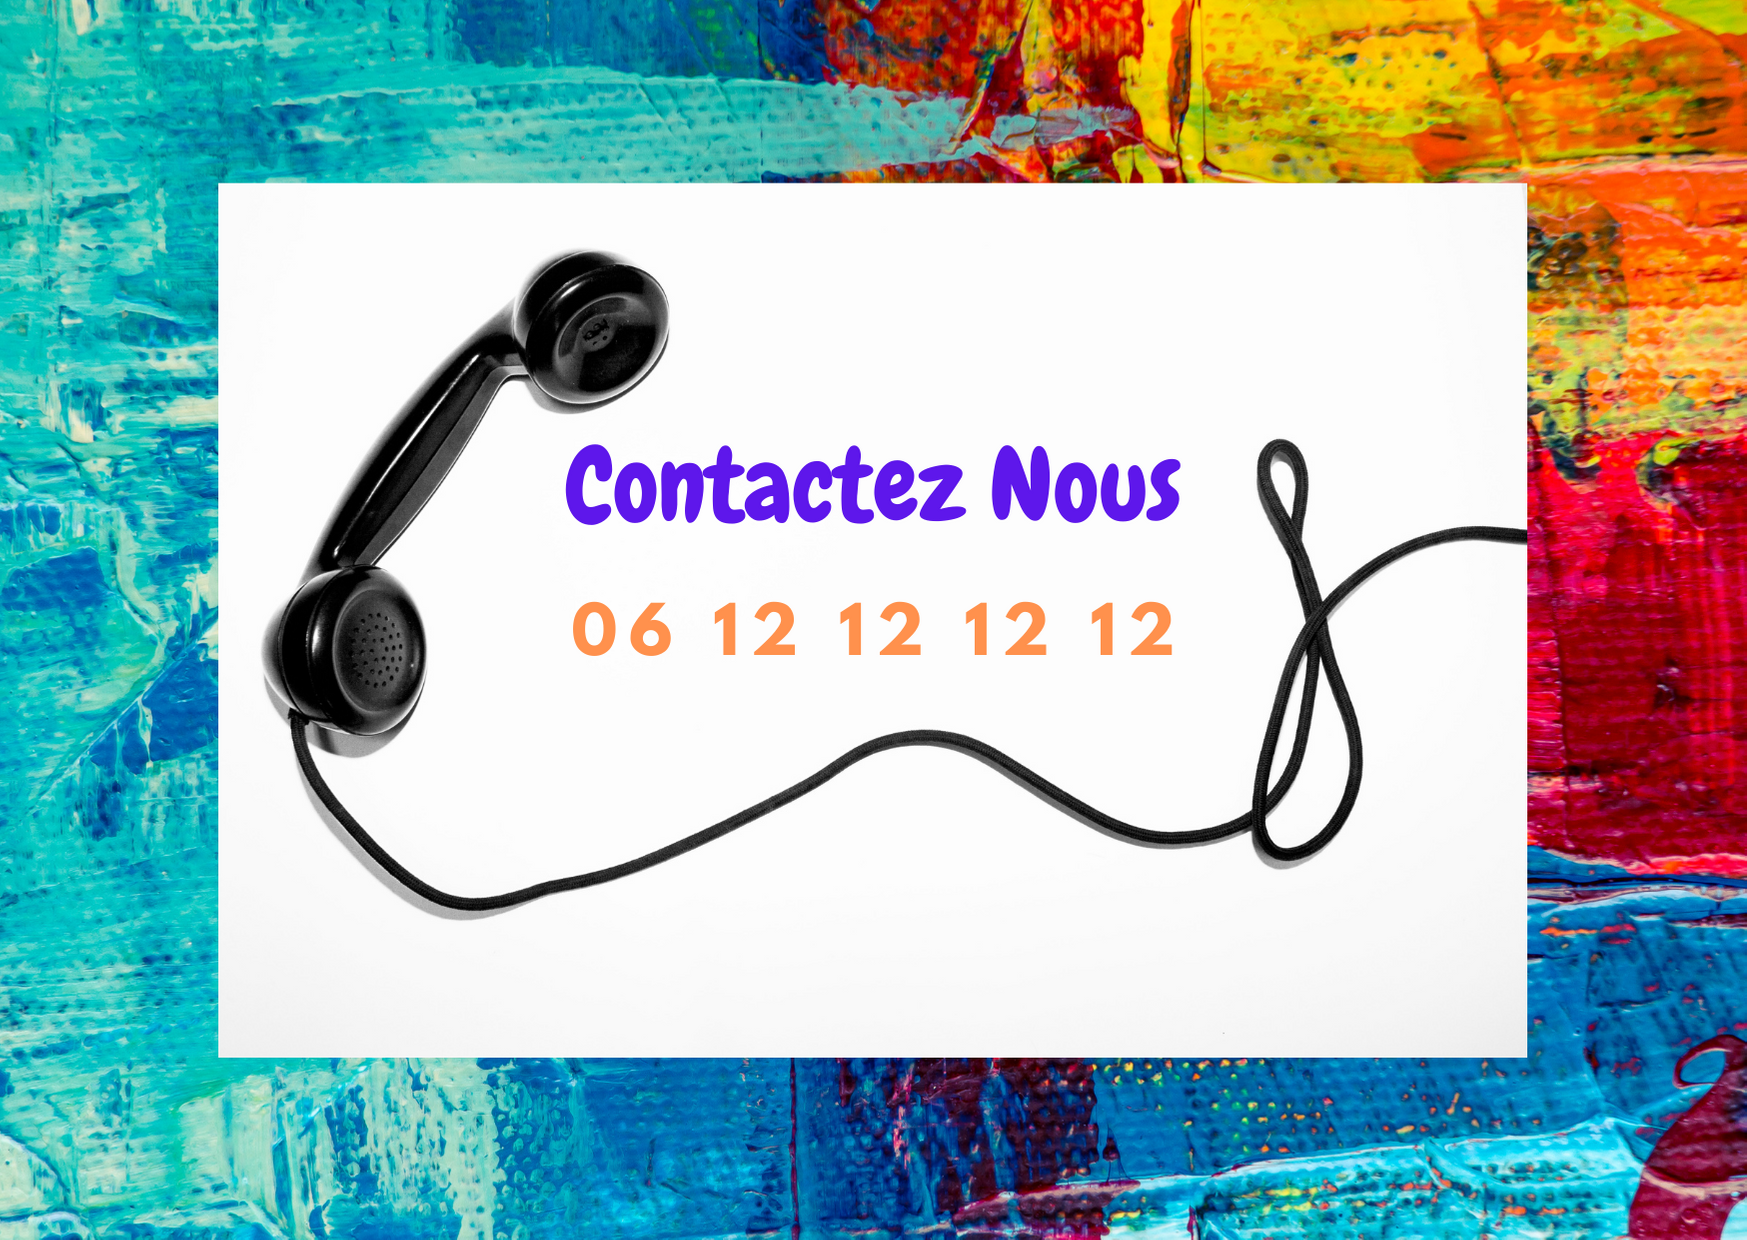
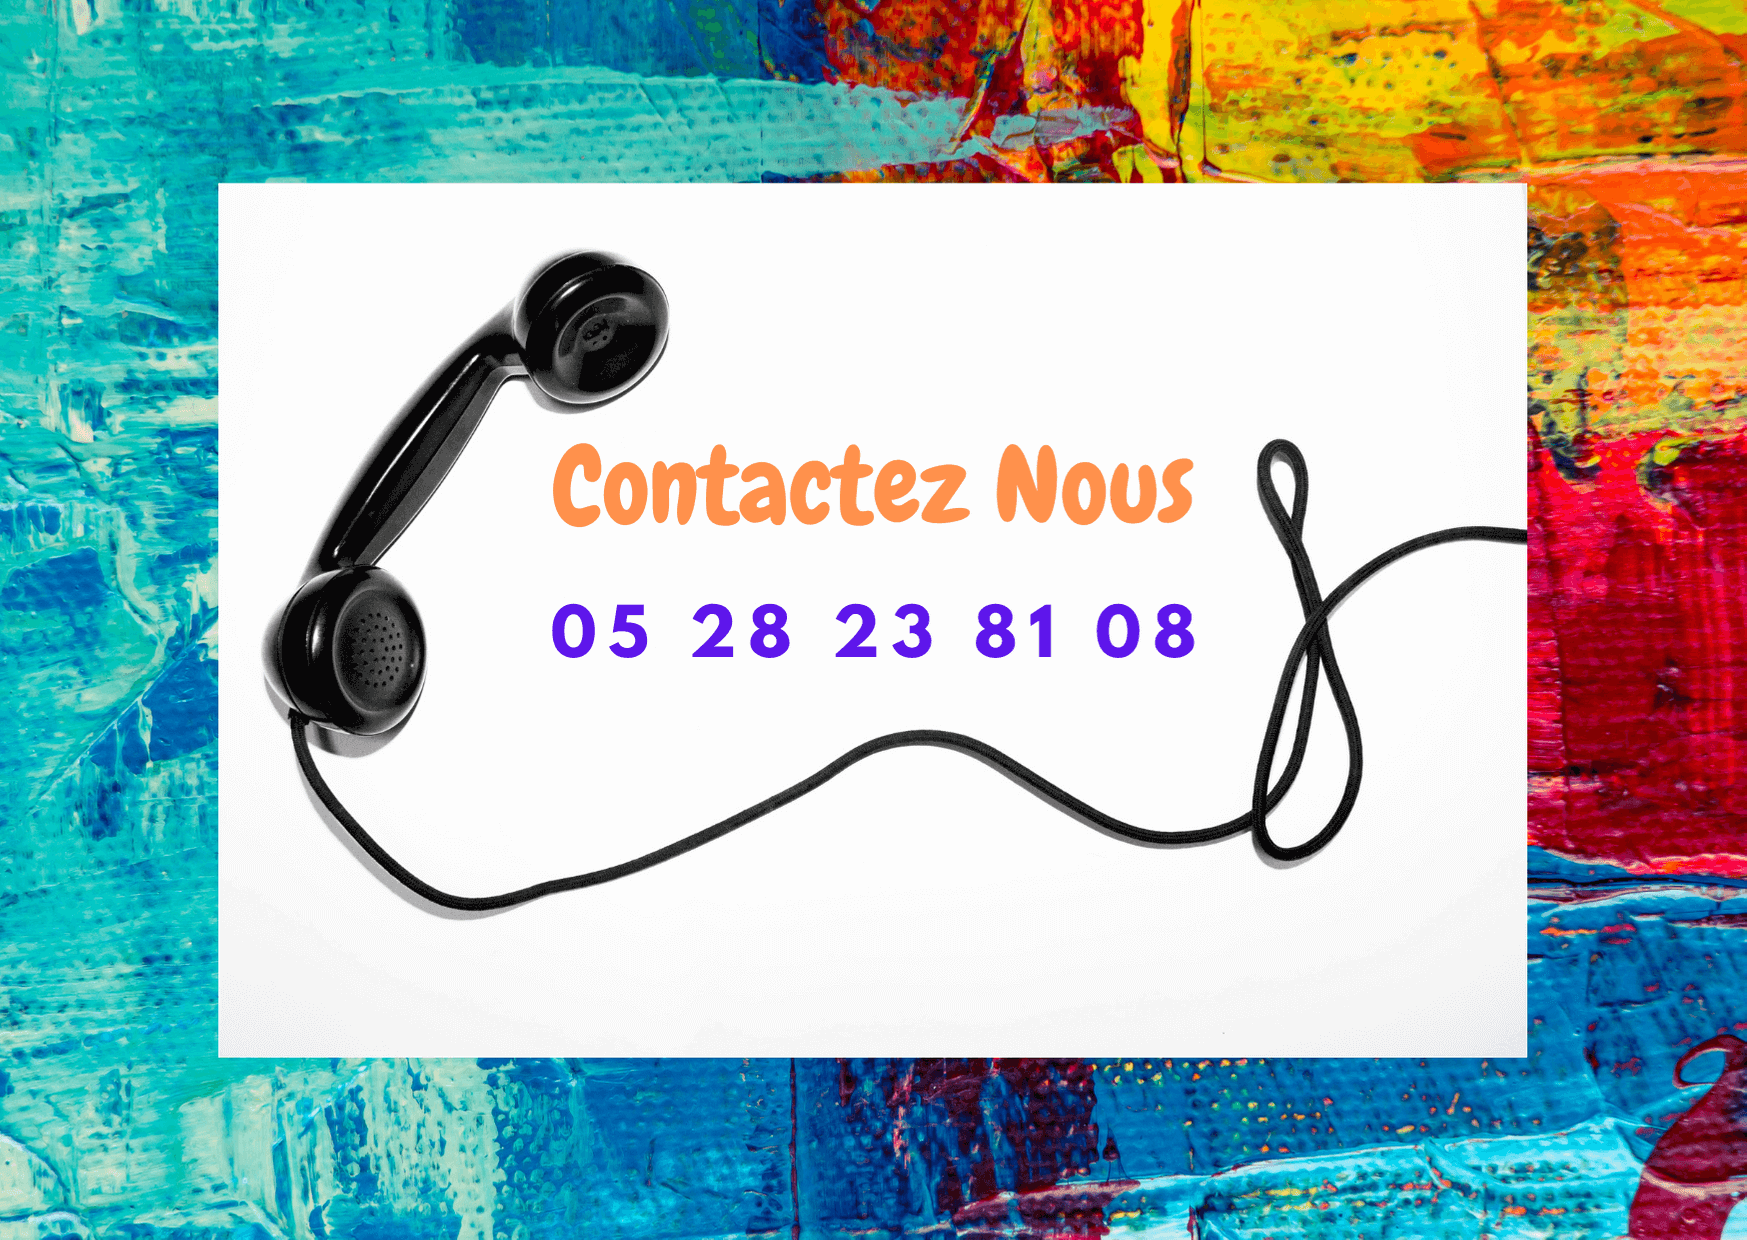
main pages are done

diff --git a/src/components/Footer.js b/src/components/Footer.js
@@ -1,14 +1,14 @@
 import React from 'react';
 import {
   Container,
-  Divider,
   Grid,
   Header,
-  Image,
   List,
   Segment,
+  Icon,
 } from 'semantic-ui-react';
 import 'semantic-ui-css/semantic.min.css';
+import { Link } from 'react-router-dom';
 
 const Footer = () => (
   <div>
@@ -19,58 +19,37 @@ const Footer = () => (
     >
       <Container textAlign='center'>
         <Grid divided inverted stackable>
-          <Grid.Column width={3}>
-            <Header inverted as='h4' content='Group 1' />
+          <Grid.Column width={4}>
+            <Header inverted as='h4' content='Nos Services' />
+
             <List link inverted>
-              <List.Item as='a'>Link One</List.Item>
-              <List.Item as='a'>Link Two</List.Item>
-              <List.Item as='a'>Link Three</List.Item>
-              <List.Item as='a'>Link Four</List.Item>
+              <List.Item as='a'>
+                <Link to='/consultation'>Consultation</Link>{' '}
+              </List.Item>
+              <List.Item as='a'>
+                <Link to='/produits'>Produits</Link>
+              </List.Item>
+              <List.Item as='a'>
+                <Link to='/contact'>Contact</Link>
+              </List.Item>
             </List>
           </Grid.Column>
-          <Grid.Column width={3}>
-            <Header inverted as='h4' content='Group 2' />
+          <Grid.Column width={4}>
+            <Header inverted as='h4' content='Réseaux Sociaux' />
+
             <List link inverted>
-              <List.Item as='a'>Link One</List.Item>
-              <List.Item as='a'>Link Two</List.Item>
-              <List.Item as='a'>Link Three</List.Item>
-              <List.Item as='a'>Link Four</List.Item>
+              <List.Item as='a'>Facebook</List.Item>
+              <List.Item as='a'>Pinterest</List.Item>
+              <List.Item as='a'>Instagram</List.Item>
             </List>
           </Grid.Column>
-          <Grid.Column width={3}>
-            <Header inverted as='h4' content='Group 3' />
-            <List link inverted>
-              <List.Item as='a'>Link One</List.Item>
-              <List.Item as='a'>Link Two</List.Item>
-              <List.Item as='a'>Link Three</List.Item>
-              <List.Item as='a'>Link Four</List.Item>
-            </List>
-          </Grid.Column>
-          <Grid.Column width={7}>
-            <Header inverted as='h4' content='Footer Header' />
-            <p>
-              Extra space for a call to action inside the footer that could help
-              re-engage users.
-            </p>
+          <Grid.Column width={8}>
+            <Header inverted as='h4' content='Maharat Kids' />
+            <p>Child Development Center</p>
+            <p>Tel: 05 28 23 81 08</p>
+            <p>Email: maharatkids@gmail.com</p>
           </Grid.Column>
         </Grid>
-
-        <Divider inverted section />
-        <Image centered size='mini' src='/logo.png' />
-        <List horizontal inverted divided link size='small'>
-          <List.Item as='a' href='#'>
-            Site Map
-          </List.Item>
-          <List.Item as='a' href='#'>
-            Contact Us
-          </List.Item>
-          <List.Item as='a' href='#'>
-            Terms and Conditions
-          </List.Item>
-          <List.Item as='a' href='#'>
-            Privacy Policy
-          </List.Item>
-        </List>
       </Container>
     </Segment>
   </div>

diff --git a/src/components/Consultation.js b/src/components/Consultation.js
@@ -1,16 +1,39 @@
 import React from 'react';
-import { Image } from 'semantic-ui-react';
+import { Image, List, Grid } from 'semantic-ui-react';
 import consultation from '../assets/consultation.jpg';
 
 const Consultation = () => {
   return (
     <div>
-      <h1>this is Consultation page</h1>{' '}
-      <Image
-        className='ui small image'
-        src={consultation}
-        style={{ marginTop: '2em' }}
-      />
+      <h1>Consultation et Suivi Personalisé</h1>{' '}
+      <Grid>
+        <Grid.Row>
+          <Grid.Column width={8}>
+            <Image
+              className='ui medium image'
+              src={consultation}
+              style={{ marginTop: '2em' }}
+            />
+          </Grid.Column>
+          <Grid.Column width={8}>
+            <List as='ul'>
+              <List.Item as='li'>Gaining Access</List.Item>
+              <List.Item as='li'>Inviting Friends</List.Item>
+              <List.Item as='li'>
+                Benefits
+                <List.List as='ul'>
+                  <List.Item as='li'>
+                    <a href='/'>Link to somewhere</a>
+                  </List.Item>
+                  <List.Item as='li'>Rebates</List.Item>
+                  <List.Item as='li'>Discounts</List.Item>
+                </List.List>
+              </List.Item>
+              <List.Item as='li'>Warranty</List.Item>
+            </List>
+          </Grid.Column>
+        </Grid.Row>
+      </Grid>
     </div>
   );
 };

diff --git a/src/components/Produits.js b/src/components/Produits.js
@@ -1,9 +1,16 @@
 import React from 'react';
+import { Image } from 'semantic-ui-react';
+import produits from '../assets/produits.jpg';
 
 const Produits = () => {
   return (
     <div>
-      <h1>this is produits page</h1>
+      <h1>Nos Produits et Services</h1>
+      <Image
+        className='ui centered large image'
+        src={produits}
+        style={{ marginTop: '2em' }}
+      />
     </div>
   );
 };

diff --git a/src/components/Contact.js b/src/components/Contact.js
@@ -5,7 +5,7 @@ import phone from '../assets/phone.png';
 const Contact = () => {
   return (
     <div>
-      <h1>this is contact page</h1>
+      <h1>Contactez Nous</h1>
 
       <div>
         <Image
